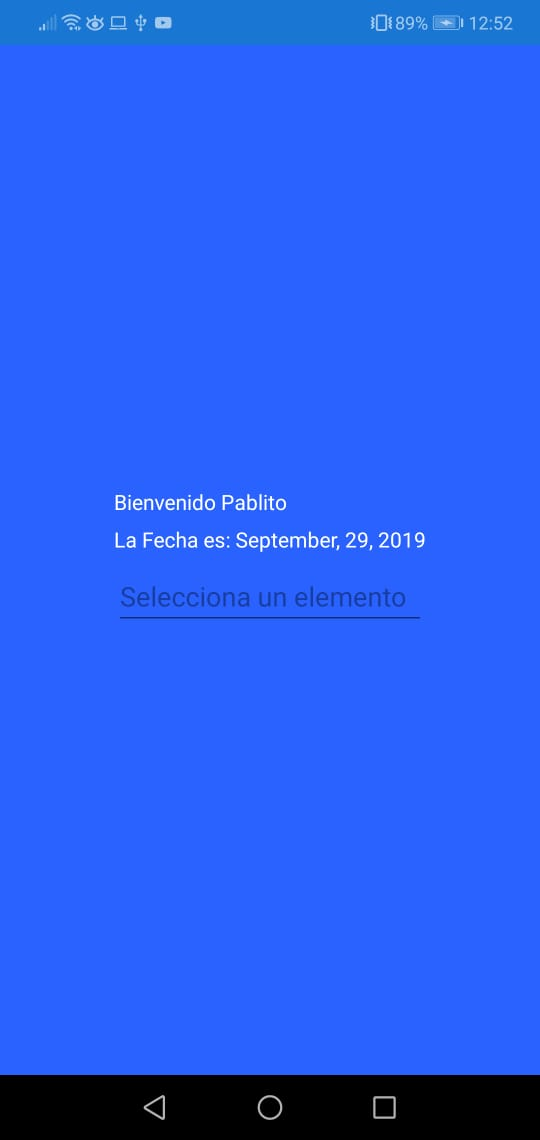
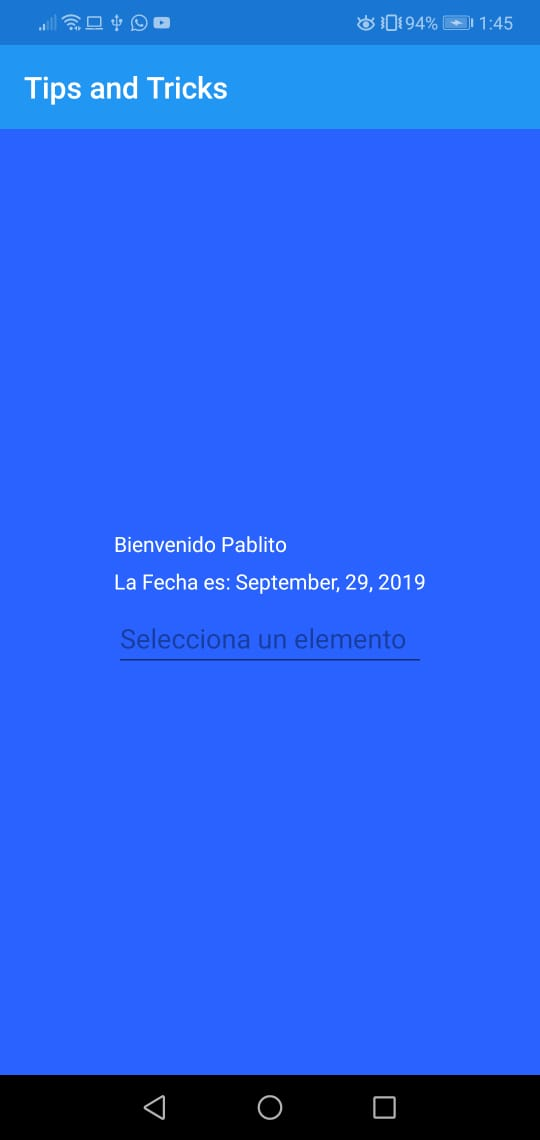
Updated fuctions

Changed region(s): [[0.0, 0.0, 1.0, 0.1228], [0.2074, 0.4298, 0.8, 0.5833]]

diff --git a/TipsAndTricks/TipsAndTricks/Views/AppPage.xaml b/TipsAndTricks/TipsAndTricks/Views/AppPage.xaml
@@ -7,7 +7,9 @@
              x:Class="TipsAndTricks.Views.AppPage"
              xmlns:sys="clr-namespace:System;assembly=mscorlib"
              xmlns:ios="clr-namespace:Xamarin.Forms.PlatformConfiguration.iOSSpecific;assembly=Xamarin.Forms.Core"
-             NavigationPage.HasNavigationBar="True"
+             NavigationPage.HasNavigationBar ="True"
+             Title="Tips and Tricks"
+             
              >
     <ContentPage.Content>
         <StackLayout VerticalOptions="CenterAndExpand"

diff --git a/TipsAndTricks/TipsAndTricks/App.xaml.cs b/TipsAndTricks/TipsAndTricks/App.xaml.cs
@@ -11,7 +11,7 @@ namespace TipsAndTricks
         {
             InitializeComponent();
 
-            MainPage = new AppPage();
+            MainPage = new NavigationPage(new AppPage());
         }
 
         protected override void OnStart()
